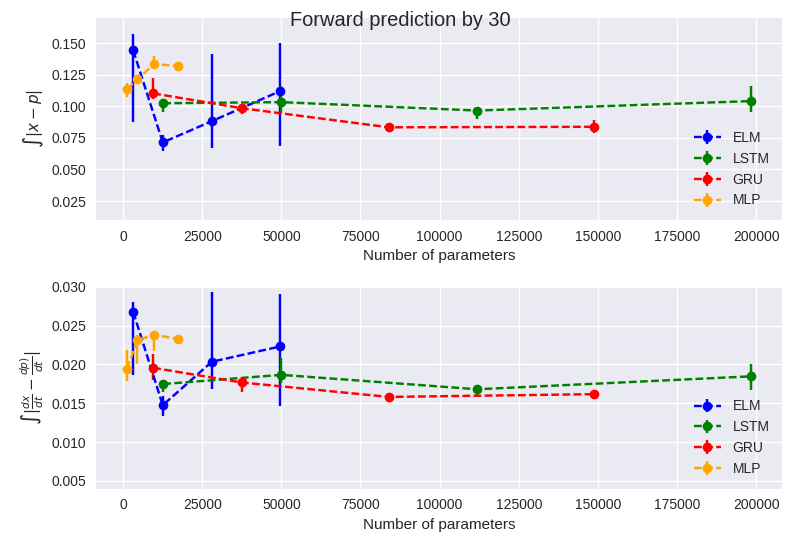
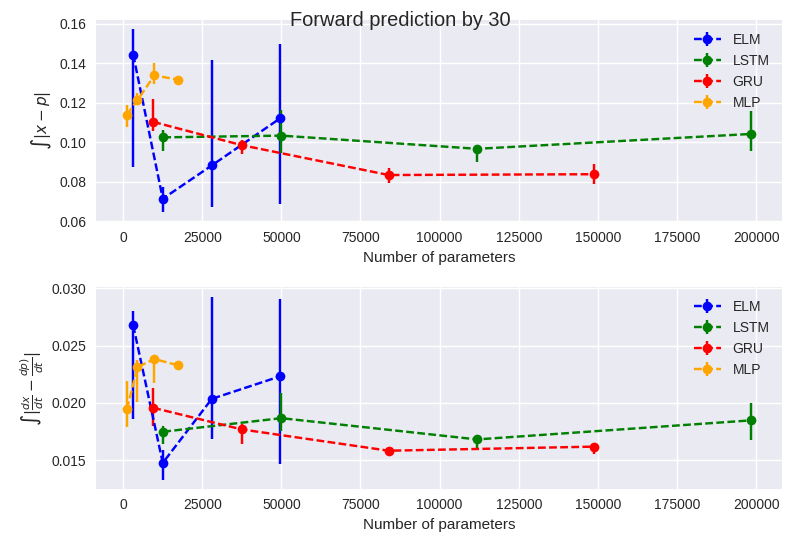
Changed dumb error bars

diff --git a/Mackey_Glass/eval_mg2.py b/Mackey_Glass/eval_mg2.py
@@ -12,8 +12,8 @@ def scatter_plot(base,i,n_test):
     D=np.zeros((len(modelnames),4,3))
     X=np.zeros((len(modelnames),4,1)) #nmodels, n_steps, data
     mp={'ELM':0,'LSTM':1,'GRU':2}#,'MLP':3}
-    Mrange= [0.07,3.2]
-    Drange=[0.03,0.425]
+    #Mrange= [0.07,3.2]
+    #Drange=[0.03,0.425]
     hp={32:0,64:1,96:2,128:3}
 
     base='/mnt/D2/Chaos/mg/lng/beta/'
@@ -77,8 +77,8 @@ def scatter_plot(base,i,n_test):
     for d in range(len(modelnames)):
         print(M[d,:,0],M[d,:,1])
         plt.errorbar([uf[d](j) for j in X[d,:,0]],M[d,:,0],yerr=M[d,:,1:].T,fmt='--o',color=color[d],label=modelnames[d])
-    axes=plt.gca()
-    axes.set_ylim(Mrange)
+    #axes=plt.gca()
+    #axes.set_ylim(Mrange)
     plt.ylabel('$\\int |x - p|$')
     plt.xlabel('Number of parameters')
     plt.legend()
@@ -87,8 +87,8 @@ def scatter_plot(base,i,n_test):
     for d in range(len(modelnames)):
         #plt.errorbar(X[d,:,0],D[d,:,0],yerr=D[d,:,1:].T,fmt='--o',color=color[d],label=['ELM','LSTM','GRU'][d])
         plt.errorbar([uf[d](j) for j in X[d,:,0]],D[d,:,0],yerr=D[d,:,1:].T,fmt='--o',color=color[d],label=modelnames[d])
-    axes=plt.gca()
-    axes.set_ylim(Drange)
+    #axes=plt.gca()
+    #axes.set_ylim(Drange)
 
     plt.legend()
     plt.ylabel('$\\int| \\frac{dx}{dt}-\\frac{dp)}{dt}|$')
@@ -108,7 +108,7 @@ if __name__=='__main__':
 
     spacing=100
     data=np.load('{}/data{}.npy'.format(base,ident))
-    i=30
+    i=1
     mname='LSTM'
     predy=np.load('{}/{}_{}_H{}c.npy'.format(base,mname,i,hidden_nodes))
 
@@ -122,11 +122,11 @@ if __name__=='__main__':
     ############
     print(testy.shape,predy.shape)
     predy=predy.reshape(1,-1,1)
-    gradplot(predy,testy,mname,i)
+    #gradplot(predy,testy,mname,i)
 
     #P=(np.load('{}/ELM_{}_H{}.npy'.format(base,i,hidden_nodes)),np.load('{}/LSTM_{}_H{}.npy'.format(base,i,hidden_nodes)),np.load('{}/GRU_{}_H{}.npy'.format(base,i,hidden_nodes)))
 
     #box_plot(P,testy,mname,i)
     print(predy.shape)
     
-    #scatter_plot(base,i,predy.shape[0])
+    scatter_plot(base,i,predy.shape[0])

diff --git a/Mackey_Glass/eval_mg1.py b/Mackey_Glass/eval_mg1.py
@@ -138,8 +138,8 @@ def scatter_plot(base,i,n_test):
     for d in range(len(modelnames)):
         print(M[d,:,0],M[d,:,1])
         plt.errorbar([uf[d](j) for j in X[d,:,0]],M[d,:,0],yerr=M[d,:,1:].T,fmt='--o',color=color[d],label=modelnames[d])
-    axes=plt.gca()
-    axes.set_ylim(Mrange)
+    #axes=plt.gca()
+    #axes.set_ylim(Mrange)
     plt.ylabel('$\\int |x - p|$')
     plt.xlabel('Number of parameters')
     plt.legend()
@@ -148,8 +148,8 @@ def scatter_plot(base,i,n_test):
     for d in range(len(modelnames)):
         #plt.errorbar(X[d,:,0],D[d,:,0],yerr=D[d,:,1:].T,fmt='--o',color=color[d],label=['ELM','LSTM','GRU'][d])
         plt.errorbar([uf[d](j) for j in X[d,:,0]],D[d,:,0],yerr=D[d,:,1:].T,fmt='--o',color=color[d],label=modelnames[d])
-    axes=plt.gca()
-    axes.set_ylim(Drange)
+    #axes=plt.gca()
+    #axes.set_ylim(Drange)
 
     plt.legend()
     plt.ylabel('$\\int| \\frac{dx}{dt}-\\frac{dp)}{dt}|$')
@@ -167,7 +167,7 @@ if __name__=='__main__':
 
     spacing=100
     data=np.load('{}/data{}.npy'.format(base,ident))
-    i=30
+    i=1
     mname='LSTM'
     predy=np.load('{}/{}_{}_H{}a.npy'.format(base,mname,i,hidden_nodes))
     
